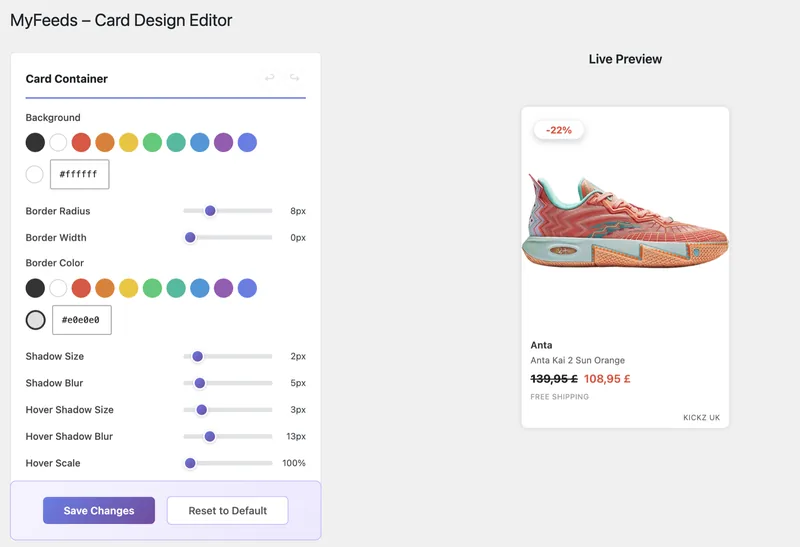
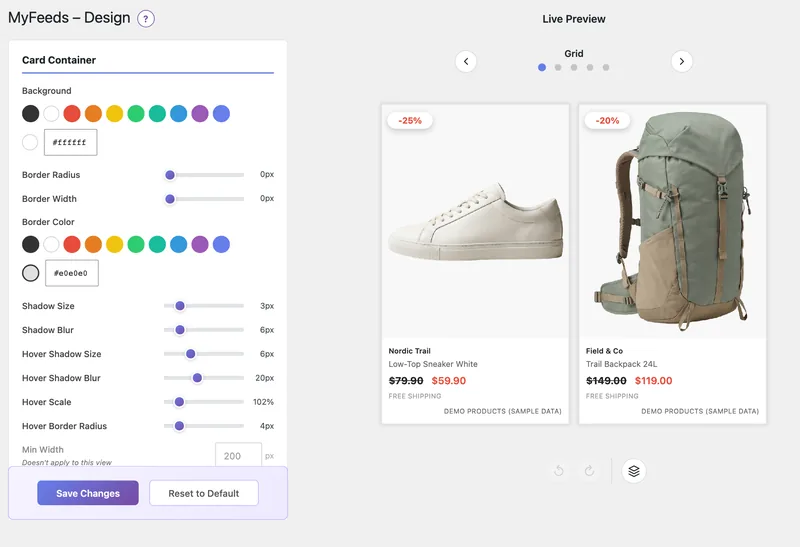
Bild des Design-Editors neu: heutiger Bildschirm ("MyFeeds – Design", Live Preview oben) mit den Musterprodukten statt des alten mit "Card Design Editor" im Titel; Alt-Texte nennen zwei Karten
Startseite, /pin/look-like-a-shop/ und die Labore (gleiche Datei). Gleiche Masse 1400x957 / 800x547.

diff --git a/pin/look-like-a-shop/index.html b/pin/look-like-a-shop/index.html
@@ -465,7 +465,7 @@ footer a{color:#fff;text-underline-offset:3px}
     </div>
     <div class="design">
       <figure class="shot">
-        <img src="/assets/pin/look-like-a-shop/card-design-editor-800.webp" srcset="/assets/pin/look-like-a-shop/card-design-editor-800.webp 800w, /assets/pin/look-like-a-shop/card-design-editor-1400.webp 1400w" sizes="(min-width:1240px) 660px, (min-width:900px) 58vw, 100vw" width="1400" height="957" loading="lazy" alt="The MyFeeds design editor in WordPress: colour swatches, sliders for border radius, border width, shadow and hover, and a live preview of a product card with a minus 22 percent badge.">
+        <img src="/assets/pin/look-like-a-shop/card-design-editor-800.webp" srcset="/assets/pin/look-like-a-shop/card-design-editor-800.webp 800w, /assets/pin/look-like-a-shop/card-design-editor-1400.webp 1400w" sizes="(min-width:1240px) 660px, (min-width:900px) 58vw, 100vw" width="1400" height="957" loading="lazy" alt="The MyFeeds design editor in WordPress: colour swatches, sliders for border radius, border width, shadow and hover, and a live preview of two product cards with discount badges of minus 25 and minus 20 percent.">
         <figcaption>The design editor in WordPress, with its live preview. Only some of the settings are shown.</figcaption>
       </figure>
       <div class="try">

diff --git a/pin/lab/v4/pin/look-like-a-shop/index.html b/pin/lab/v4/pin/look-like-a-shop/index.html
@@ -492,7 +492,7 @@ if (location.pathname.indexOf('/pin/lab/') !== 0) !function (d) { var g = d.crea
     </div>
     <div class="design">
       <figure class="shot">
-        <img src="/assets/pin/look-like-a-shop/card-design-editor-800.webp" srcset="/assets/pin/look-like-a-shop/card-design-editor-800.webp 800w, /assets/pin/look-like-a-shop/card-design-editor-1400.webp 1400w" sizes="(min-width:1240px) 660px, (min-width:900px) 58vw, 100vw" width="1400" height="957" loading="lazy" alt="The MyFeeds design editor in WordPress: colour swatches, sliders for border radius, border width, shadow and hover, and a live preview of a product card with a minus 22 percent badge.">
+        <img src="/assets/pin/look-like-a-shop/card-design-editor-800.webp" srcset="/assets/pin/look-like-a-shop/card-design-editor-800.webp 800w, /assets/pin/look-like-a-shop/card-design-editor-1400.webp 1400w" sizes="(min-width:1240px) 660px, (min-width:900px) 58vw, 100vw" width="1400" height="957" loading="lazy" alt="The MyFeeds design editor in WordPress: colour swatches, sliders for border radius, border width, shadow and hover, and a live preview of two product cards with discount badges of minus 25 and minus 20 percent.">
       </figure>
       <div class="try">
         <div class="chips" role="group" aria-label="Card style">

diff --git a/index.html b/index.html
@@ -688,7 +688,7 @@ footer a{color:#fff;text-underline-offset:3px}
     </div>
     <div class="design">
       <figure class="shot">
-        <img src="/assets/home/card-design-editor-800.webp" srcset="/assets/home/card-design-editor-800.webp 800w, /assets/home/card-design-editor-1400.webp 1400w" sizes="(min-width:1240px) 660px, (min-width:900px) 58vw, 100vw" width="1400" height="957" loading="lazy" alt="The MyFeeds design editor in WordPress: colour swatches, sliders for border radius, border width, shadow and hover, and a live preview of a product card with a minus 22 percent badge.">
+        <img src="/assets/home/card-design-editor-800.webp" srcset="/assets/home/card-design-editor-800.webp 800w, /assets/home/card-design-editor-1400.webp 1400w" sizes="(min-width:1240px) 660px, (min-width:900px) 58vw, 100vw" width="1400" height="957" loading="lazy" alt="The MyFeeds design editor in WordPress: colour swatches, sliders for border radius, border width, shadow and hover, and a live preview of two product cards with discount badges of minus 25 and minus 20 percent.">
         <figcaption>The design editor in WordPress, with its live preview. Only some of the settings are shown.</figcaption>
       </figure>
       <div class="try">

diff --git a/pin/lab/v3/patterns/index.html b/pin/lab/v3/patterns/index.html
@@ -509,7 +509,7 @@
       <div>
         <p class="pl"><code>.shot</code><span>A screenshot on its own, with a caption that says what it is.</span></p>
         <figure class="shot">
-      <img src="/assets/home/card-design-editor-800.webp" srcset="/assets/home/card-design-editor-800.webp 800w, /assets/home/card-design-editor-1400.webp 1400w" sizes="(min-width:900px) 720px, calc(100vw - 32px)" width="1400" height="957" loading="lazy" alt="The MyFeeds design editor in WordPress: colour fields and sliders on the left, a live preview of one product card on the right.">
+      <img src="/assets/home/card-design-editor-800.webp" srcset="/assets/home/card-design-editor-800.webp 800w, /assets/home/card-design-editor-1400.webp 1400w" sizes="(min-width:900px) 720px, calc(100vw - 32px)" width="1400" height="957" loading="lazy" alt="The MyFeeds design editor in WordPress: colour fields and sliders on the left, a live preview of two product cards on the right.">
       <figcaption>The design editor in WordPress, with its live preview. Only some of the settings are shown.</figcaption>
     </figure>
       </div>
